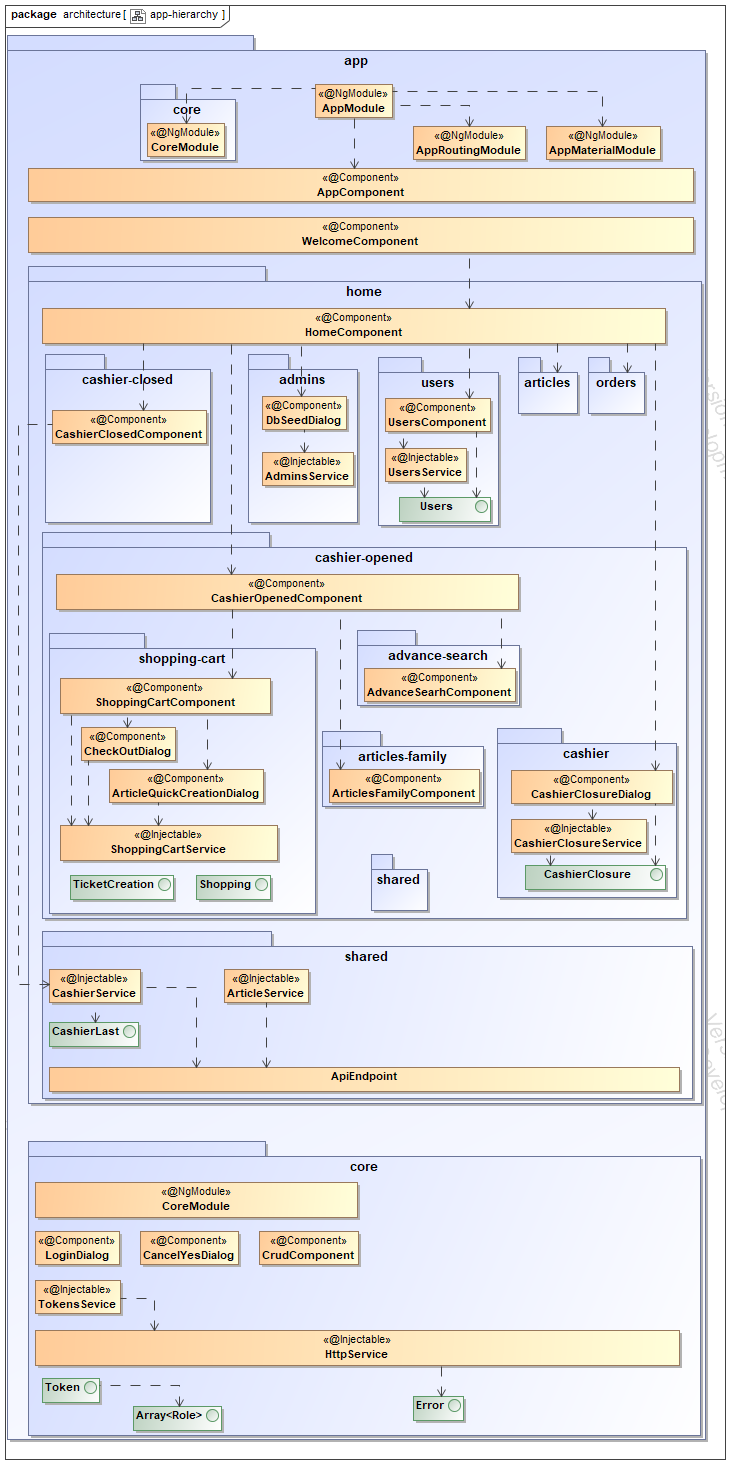
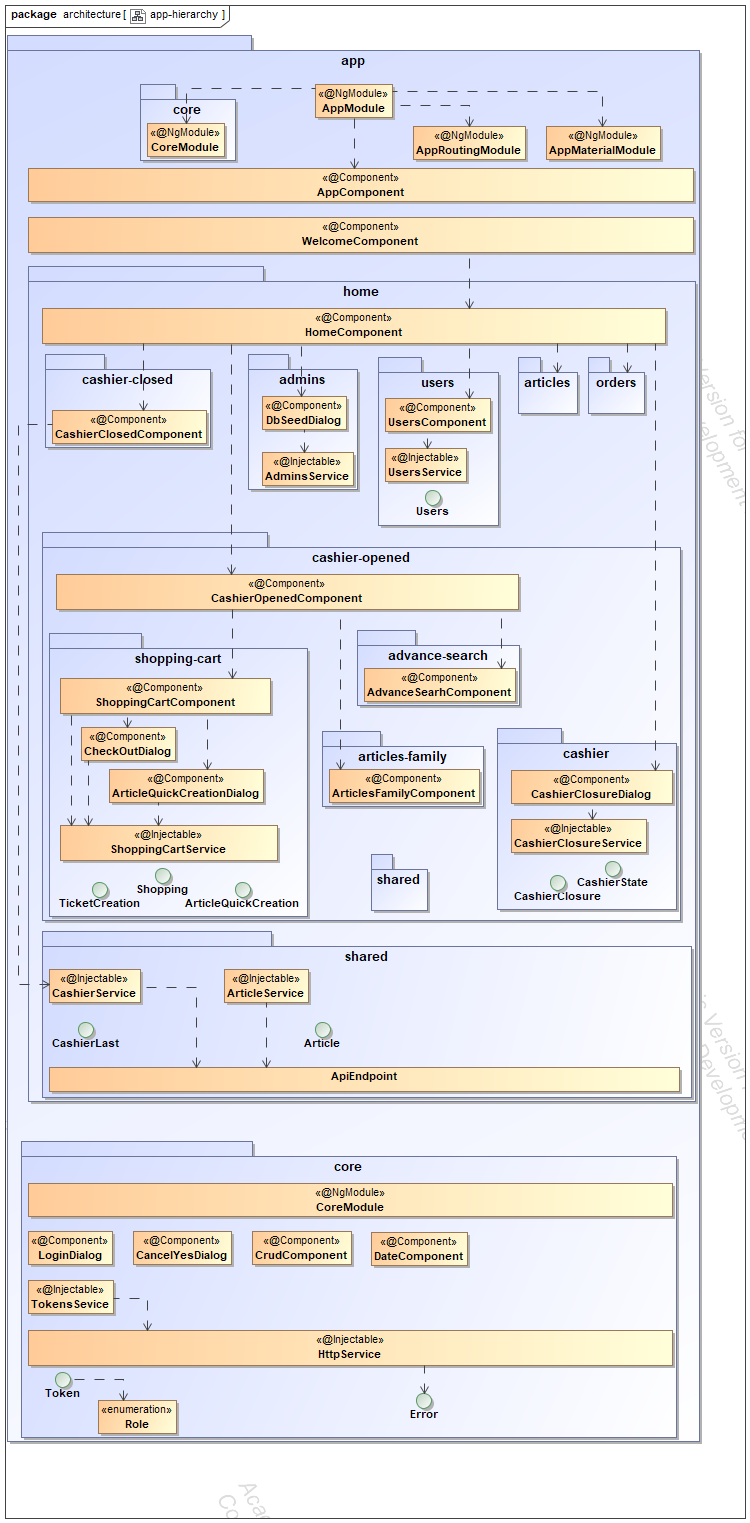
docs

diff --git a/src/app/home/users/users.component.ts b/src/app/home/users/users.component.ts
@@ -34,15 +34,19 @@ export class UsersComponent {
 
 
   create() {
+    // TODO
   }
 
   read(user: User) {
+    // TODO
   }
 
   update(user: User) {
+    // TODO
   }
 
   delete(user: User) {
+    // TODO
   }
 
 }

diff --git a/README.md b/README.md
@@ -50,7 +50,7 @@ Importar el proyecto mediante **WebStorm**
 
 ### Metodología de trabajo
 :one: Organización de la **historia** y **tareas** en el proyecto de GitHub mediante **notas**. Elegir la **nota** a implementar, convertirla en **issue#** y configurarla  
-:two: Mirar el estado del proyecto [![Build Status](https://travis-ci.org/miw-upm/betca-tpv-angular.svg?branch=develop)](https://travis-ci.org/miw-upm/betca-tpv-angular) en [Travis-CI](https://travis-ci.org/miw-upm/betca-tpv-angular/builds)  
+:two: Mirar el estado del proyecto [![Build Status](https://travis-ci.org/miw-upm/betca-tpv-angular.svg?branch=develop) en Travis-CI](https://travis-ci.org/miw-upm/betca-tpv-angular)    
 :three: Sincronizarse con las ramas remotas, 
 ```sh
 > git fetch --all
@@ -69,14 +69,16 @@ Y si fuera necesario, actualizar la rama **develop** con la remota **origin/deve
 > git checkout issue#xx
 > git merge -m "Merge develop into issue #xx" develop
 ```  
- Resolver conflictos:
-    1. Editar el fichero, y decidir el código final
-    1. Realizar el commit para terminarlo   
+Resolver conflictos:   
+1. Editar el fichero, y decidir el código final   
+1. Realizar el commit para terminarlo   
+
 :five: Programar la tarea o una parte de ella, lanzar **TODOS LOS TESTS** y asegurarse que no hay errores. Finalmente, sincronizarse con las ramas remotas:
  ```sh
 > git fetch --all
 ```
 Y si necesitamos actualizarnos, se repite el paso :four:
+
 :six: Actualizar **develop** con nuestro cambios:
 ```sh
 > git checkout develop
@@ -301,6 +303,11 @@ export class CashierClosureService {
 ![](https://github.com/miw-upm/betca-tpv-angular/blob/develop/docs/core-module.png)
 
 ### Jerarquía de componentes y servicios
+#### Métricas
+* Paquete: <20 clases.
+* Clases: <500-200 líneas, <20 métodos.
+* Métodos: <3-5 parámetros, <20 líneas.
+
 ![](https://github.com/miw-upm/betca-tpv-angular/blob/develop/docs/app-hierarchy.png)
 ![](https://github.com/miw-upm/betca-tpv-angular/blob/develop/docs/app-hierarchy-code.png)
 
@@ -344,6 +351,14 @@ export class HttpService {
       })
     );
   }
+  post(endpoint: string, body?: Object): Observable<any> {
+    return this.http.post(HttpService.API_END_POINT + endpoint, body, this.createOptions()).pipe(
+      map(response => this.extractData(response)
+      ), catchError(error => {
+        return this.handleError(error);
+      })
+    );
+  }  
   ...
   private createOptions(): any {
     if (this.token !== undefined) {
@@ -521,5 +536,42 @@ Proceso intermedio de los datos
       })
     );
   }
+```
+
+### CrudComponent
+
+```html
+<!-- Default: [createAction]="true" [readAction]="true" [updateAction]="true" [deleteAction]="true"-->
+
+<app-crud [data]="data" [title]="title" [columns]="columns";
+          (create)="create()" (read)="read($event)" (update)="update($event)" (delete)=delete($event)></app-crud>
+          
+<app-crud [data]="data" [title]="title" [columns]="columns" [readAction]="false" [deleteAction]="false";
+          (create)="create()" (update)="update($event)" </app-crud>          
+```
+
+```typescript
+export class UsersComponent {
+  ...
+
+  title = 'Users management';
+  columns = ['mobile', 'username'];
+  data: User[];
+  
+  ...
+  
+  create() {
+    // TODO
+  }
+  read(user: User) {
+    // TODO
+  }
+  update(user: User) {
+    // TODO
+  }
+  delete(user: User) {
+    // TODO
+  }
+}
 ```
 
